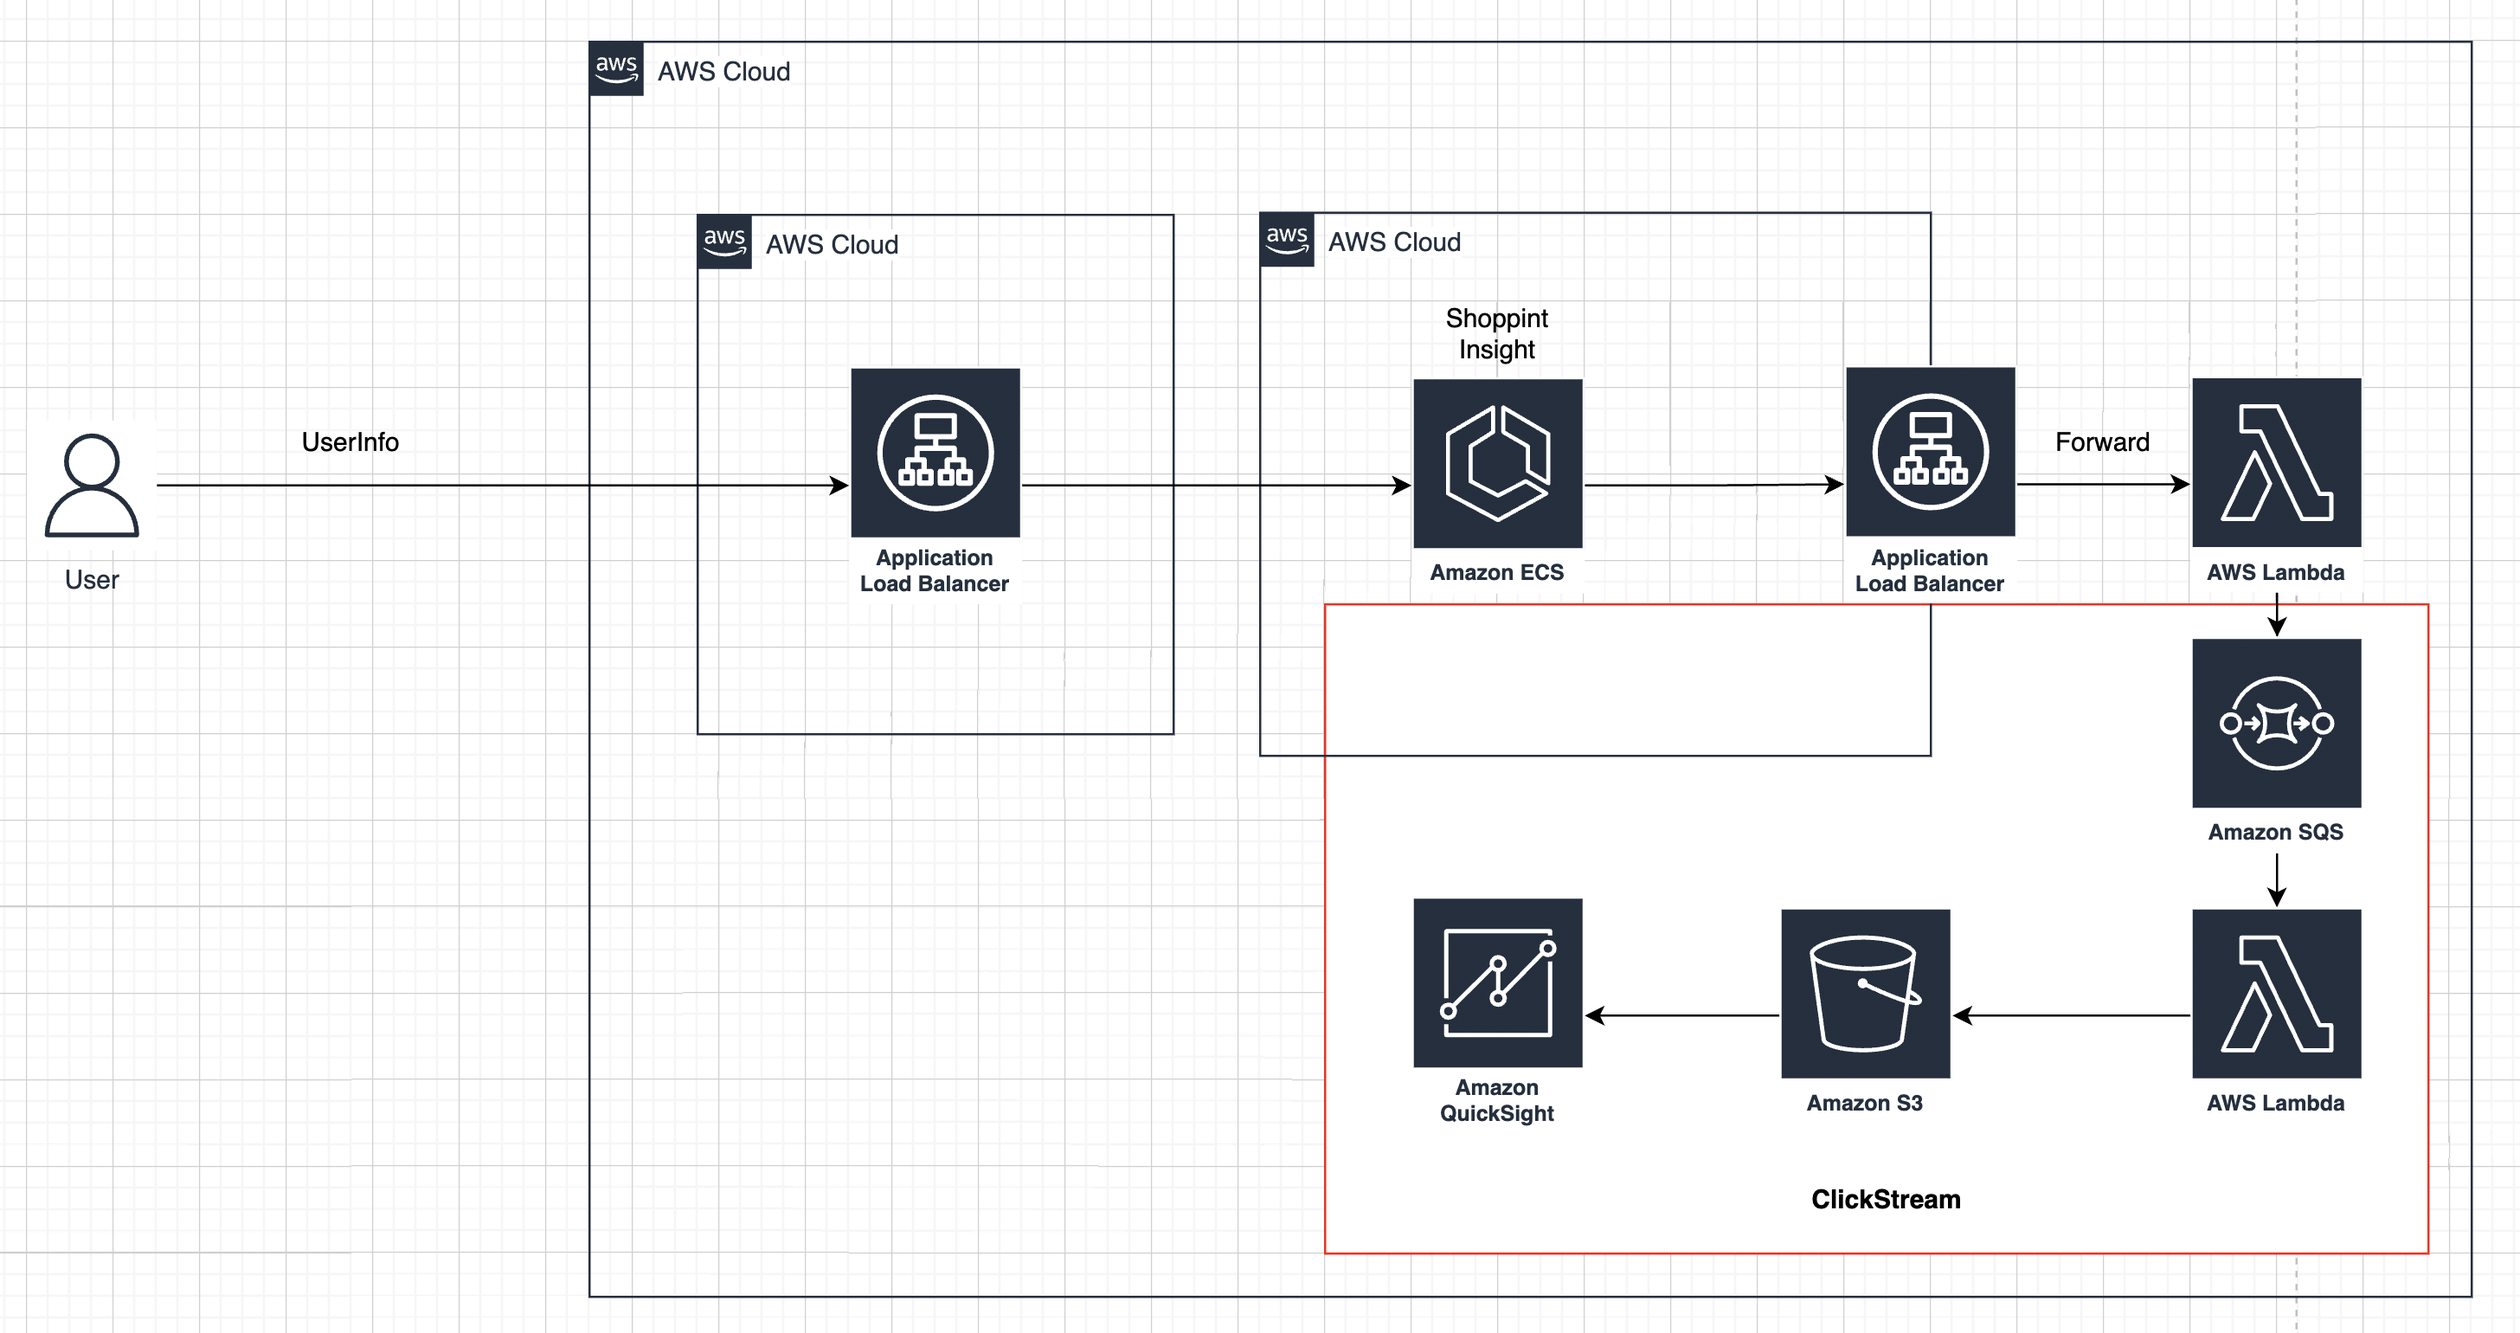
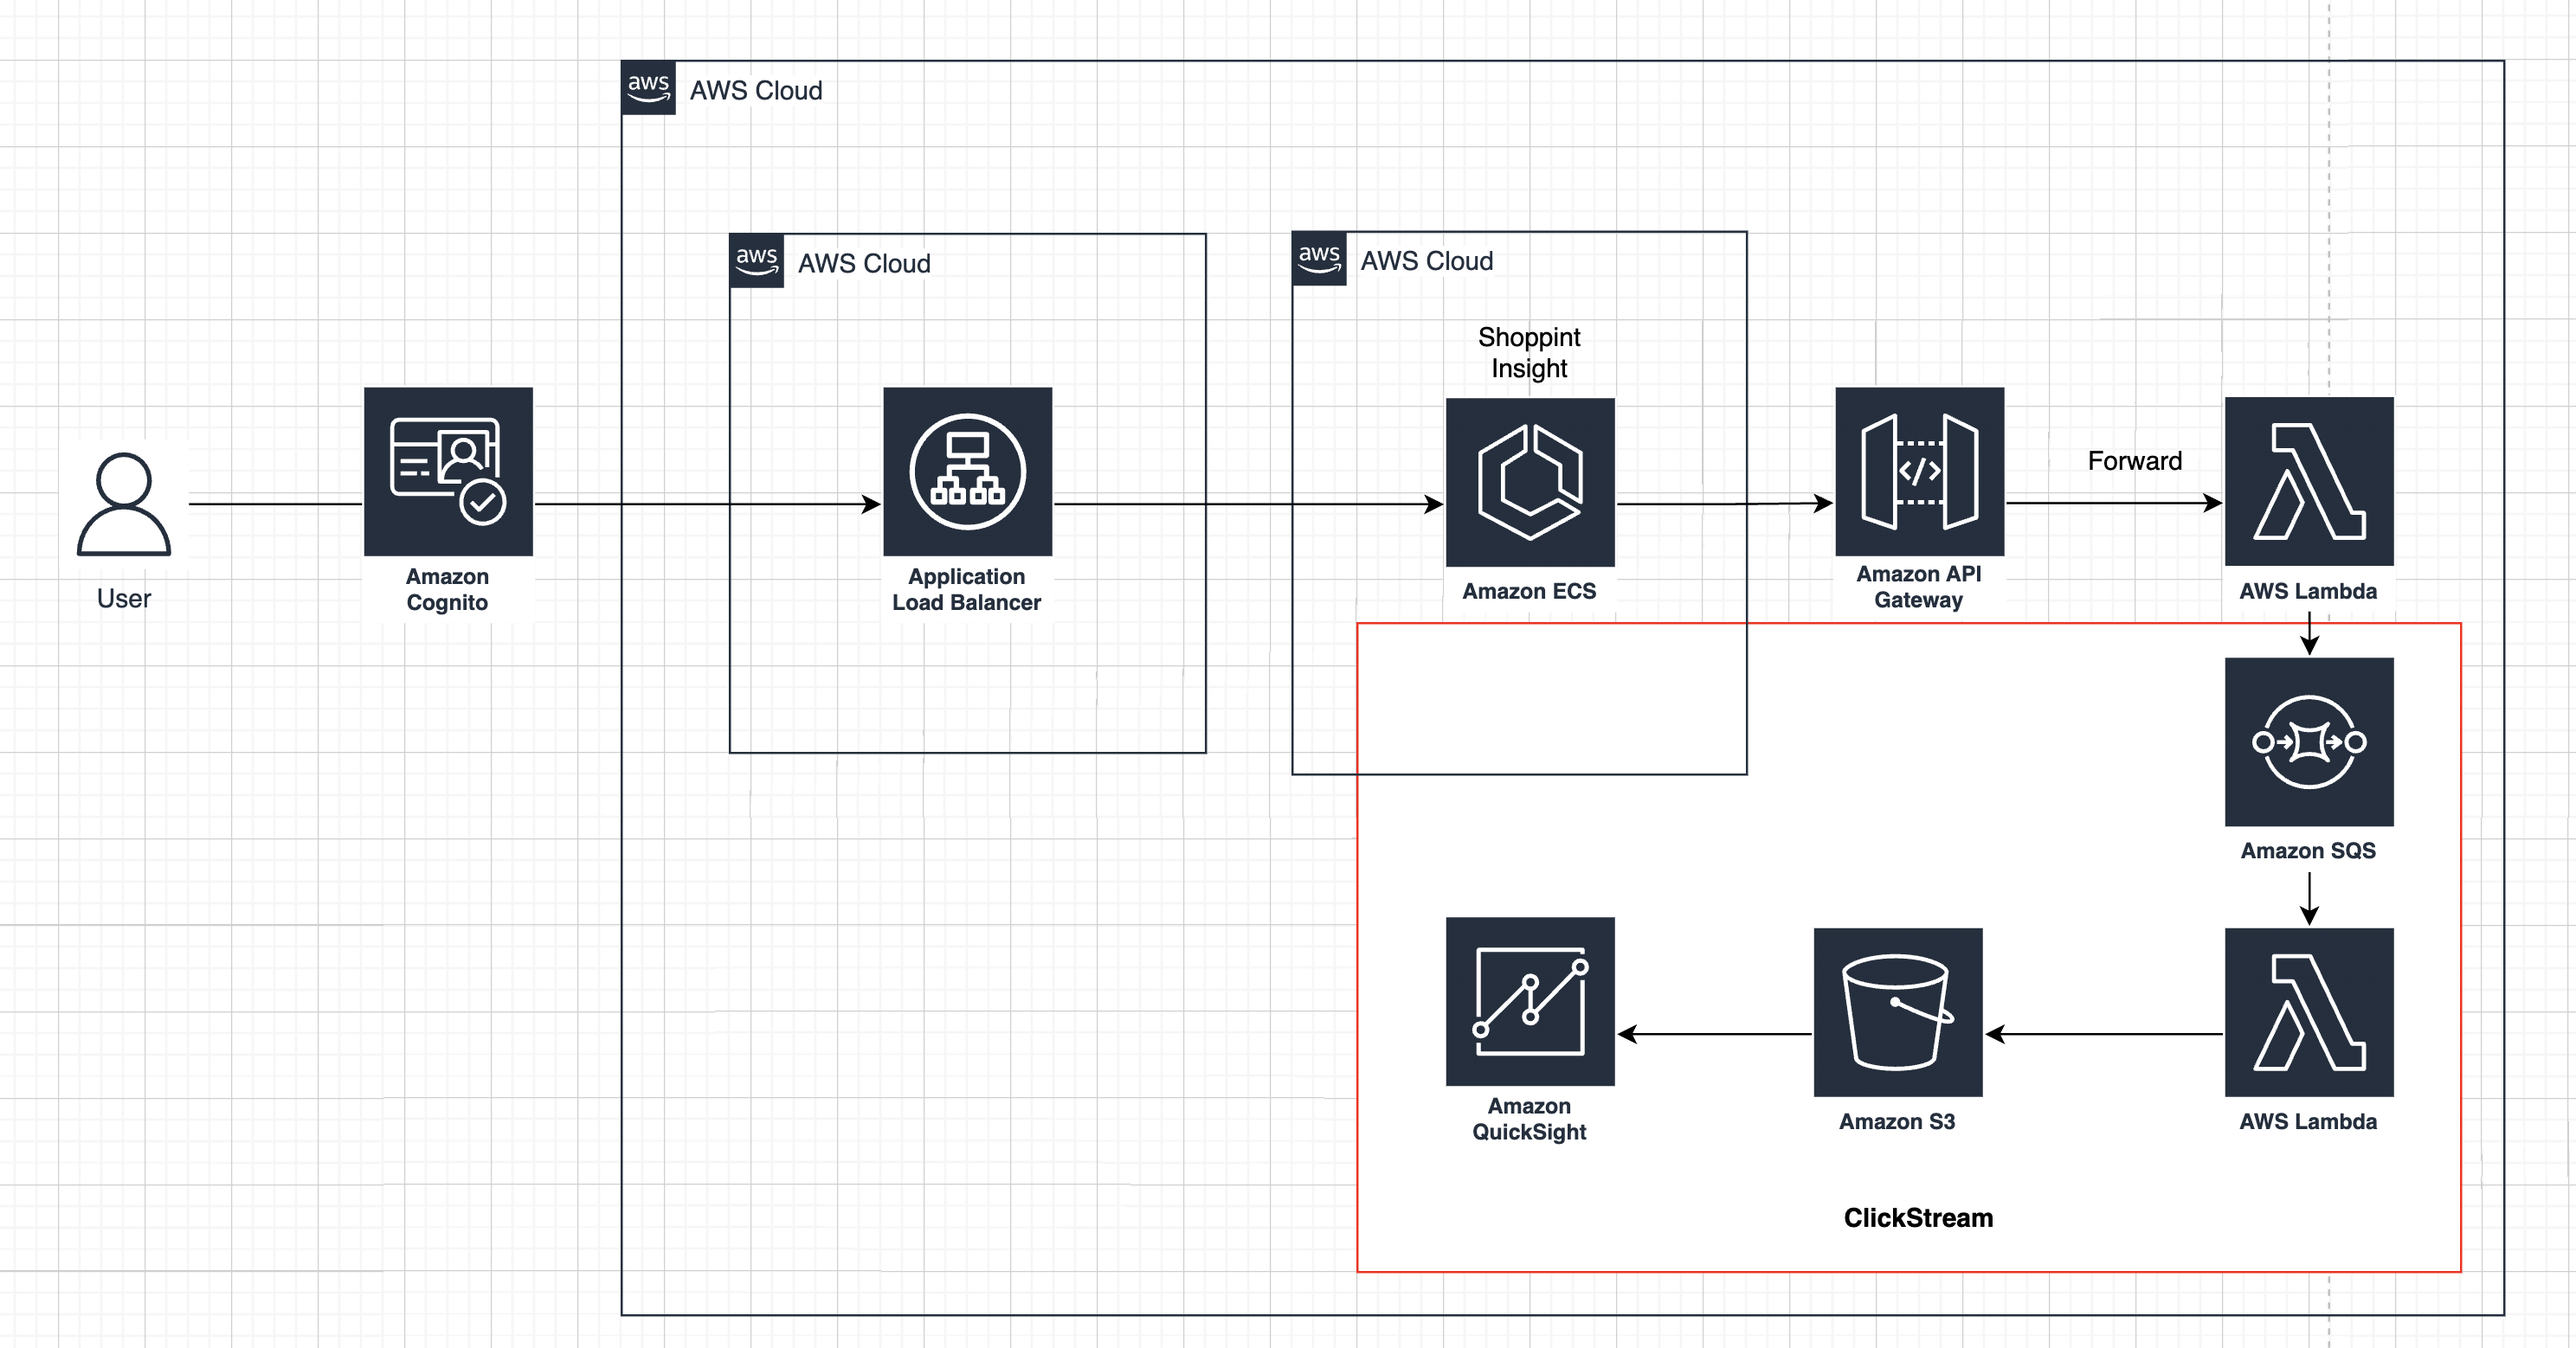
Update SQS Queuing

diff --git a/shopping-insight/src/container/FormContainer/FormContainer.tsx b/shopping-insight/src/container/FormContainer/FormContainer.tsx
@@ -30,6 +30,7 @@ import {
 import { useFormSubmit } from "../../hooks/useFormSubmit";
 import { useGroupsValue } from "../../hooks/useGroupsValue";
 import { useEffect } from "react";
+import { useClickEvent } from "../../hooks/useClickEvent";
 
 export default function FormContainer() {
   const { rangePickerValue, setRangePicker } = useRangePicker();
@@ -42,8 +43,17 @@ export default function FormContainer() {
     useFormSubmit(shoppingValue, rangePickerValue, dispatch);
 
   useEffect(() => {
-    const userId = sessionStorage.getItem("userId");
-    console.log("유저 Id", userId);
+    const EntryPoint = async () => {
+      await useClickEvent({
+        clickEvent: "visit",
+        userId: "leedonggyu",
+        userAgent: navigator.userAgent,
+        language: navigator.language,
+        platform: navigator.platform,
+      });
+    };
+
+    EntryPoint();
   }, []);
 
   return (

diff --git a/shopping-insight/src/hooks/useClickEvent.ts b/shopping-insight/src/hooks/useClickEvent.ts
@@ -1,10 +1,33 @@
+import axios from "axios";
+import dayjs from 'dayjs'
+
 interface Props {
   clickEvent: string;
   userId: string;
   userAgent: string;
   platform: string;
   language: string;
-  userInfo: string;
 }
 
-export const useClickEvent = (props: Props) => {};
+export const useClickEvent = async (props: Props) => {
+  try {
+    const res = await axios.post("https://l28oue8dyl.execute-api.ap-northeast-2.amazonaws.com/getClickEvents", {
+      headers : {
+        "Content-Type" : "application/json"
+      },
+      body: {
+        clickEvent: props.clickEvent,
+        userId: props.userId,
+        userAgent: props.userAgent,
+        platform: props.platform,
+        language: props.language,
+        eventCreatedAt: dayjs().unix()
+      }
+    });
+
+    console.log("Response:", res.data);
+  } catch (error) {
+
+    console.error("Error:", error);
+  }
+};

diff --git a/shopping-insight/src/index.tsx b/shopping-insight/src/index.tsx
@@ -4,16 +4,15 @@ import { Provider as RTKProvider } from "react-redux";
 import App from "./App";
 import GlobalStyle from "./styles/globalStyles";
 import store from "./redux/store/store";
-import { v4 as uuid4 } from "uuid";
 
-const generateAndSaveUniqueId = () => {
-  const uniqId = uuid4();
-  sessionStorage.setItem("userId", uniqId);
-};
+// const generateAndSaveUniqueId = () => {
+//   const uniqId = uuid4();
+//   sessionStorage.setItem("userId", uniqId);
+// };
 
-if (!sessionStorage.getItem("userId")) {
-  generateAndSaveUniqueId();
-}
+// if (!sessionStorage.getItem("userId")) {
+//   generateAndSaveUniqueId();
+// }
 
 const root = ReactDOM.createRoot(
   document.getElementById("root") as HTMLElement

diff --git a/functions/getClickEvents/main.go b/functions/getClickEvents/main.go
@@ -2,20 +2,99 @@ package main
 
 import (
 	"context"
+	"encoding/json"
 	"fmt"
+	"os"
+	"strconv"
 
+	"github.com/aws/aws-lambda-go/events"
 	"github.com/aws/aws-lambda-go/lambda"
+	"github.com/aws/aws-sdk-go-v2/aws"
+	"github.com/aws/aws-sdk-go-v2/config"
+	"github.com/aws/aws-sdk-go-v2/service/sqs"
+	"github.com/aws/aws-sdk-go-v2/service/sqs/types"
 )
 
-type MyEvent struct {
+type BodyDataParams struct {
+	ClickEvent     string `json:"clickEvent"`
+	UserId         string `json:"userId"`
+	UserAgent      string `json:"userAgent"`
+	Language       string `json:"language"`
+	EventCreatedAt int    `json:"eventCreatedAt"`
 }
 
-func HandleRequest(ctx context.Context, name MyEvent) (string, error) {
-	fmt.Println(name)
+var (
+	QUEUE_NAME = os.Getenv("QUEUE_NAME")
+)
 
-	return fmt.Sprintln("Hello getClickEvents"), nil
+func handler(ctx context.Context, request events.ALBTargetGroupRequest) (events.ALBTargetGroupResponse, error) {
+	msg := "OK! Put Data"
+
+	var data map[string]BodyDataParams
+	if err := json.Unmarshal([]byte(request.Body), &data); err != nil {
+		fmt.Println("JSON 구문 분석 오류:", err)
+		msg = "Fail!"
+	}
+
+	if data["body"].UserId != "" {
+		enqueue(QUEUE_NAME, data["body"])
+	}
+
+	// 요청을 처리하고 응답을 생성합니다.
+	response := events.ALBTargetGroupResponse{
+		StatusCode:        200,
+		StatusDescription: "200 OK",
+		Headers:           map[string]string{"Content-Type": "text/plain"},
+		Body:              msg,
+		IsBase64Encoded:   false,
+	}
+
+	return response, nil
+}
+
+func enqueue(qName string, event BodyDataParams) {
+	fmt.Println(qName, event)
+
+	cfg, err := config.LoadDefaultConfig(context.TODO())
+	if err != nil {
+		panic(err)
+	}
+
+	q := sqs.NewFromConfig(cfg)
+
+	_, err = q.SendMessage(context.TODO(), &sqs.SendMessageInput{
+		QueueUrl:    &qName,
+		MessageBody: aws.String(fmt.Sprintf("clickStream-%s", event.UserId)),
+		MessageAttributes: map[string]types.MessageAttributeValue{
+			"ClickEvent": {
+				DataType:    aws.String("String"),
+				StringValue: aws.String(event.ClickEvent),
+			},
+			"UserId": {
+				DataType:    aws.String("String"),
+				StringValue: aws.String(event.UserId),
+			},
+			"UserAgent": {
+				DataType:    aws.String("String"),
+				StringValue: aws.String(event.UserAgent),
+			},
+			"Language": {
+				DataType:    aws.String("String"),
+				StringValue: aws.String(event.Language),
+			},
+			"EventCreatedAt": {
+				DataType:    aws.String("String"),
+				StringValue: aws.String(strconv.Itoa(event.EventCreatedAt)),
+			},
+		},
+	})
+
+	if err != nil {
+		panic(err)
+	}
 }
 
 func main() {
-	lambda.Start(HandleRequest)
+	// Lambda 핸들러를 등록합니다.
+	lambda.Start(handler)
 }

diff --git a/README.md b/README.md
@@ -7,9 +7,11 @@
 - [x] Front ECS
 - [x] Lambda Functions
 - [x] Connect Lambda ALB
-- [ ] SQS
-- [ ] Connect SQS Lambda
+- [x] SQS
+- [x] SQS SendMessage
+- [ ] SQS PollingMessage
 - [ ] Ingest S3
+- [ ] Module
 
 ## 구성 방법
 
@@ -27,7 +29,8 @@
 
 ## ClickStream
 
-... 
+- Lambda -> s3 Ingestion 시, Put 비용이슈를 줄이기 위해 Queue를 Batch성으로 Put
+- SQS -> Kinesis DataStream으로 진행해도 좋을듯
 
 ## Frontend Unique Id
 
@@ -64,6 +67,44 @@ root.render(
     <App />
   </RTKProvider>
 );
+```
+
+### Event 기반 함수호출
+
+```ts
+import axios from "axios";
+import dayjs from 'dayjs'
+
+interface Props {
+  clickEvent: string;
+  userId: string;
+  userAgent: string;
+  platform: string;
+  language: string;
+}
+
+export const useClickEvent = async (props: Props) => {
+  try {
+    const res = await axios.post(REACT_ALB_URL, {
+      headers : {
+        "Content-Type" : "application/json"
+      },
+      body: {
+        clickEvent: props.clickEvent,
+        userId: props.userId,
+        userAgent: props.userAgent,
+        platform: props.platform,
+        language: props.language,
+        eventCreatedAt: dayjs().unix()
+      }
+    });
+
+    console.log("Response:", res.data);
+  } catch (error) {
+
+    console.error("Error:", error);
+  }
+};
 ```
 
 
